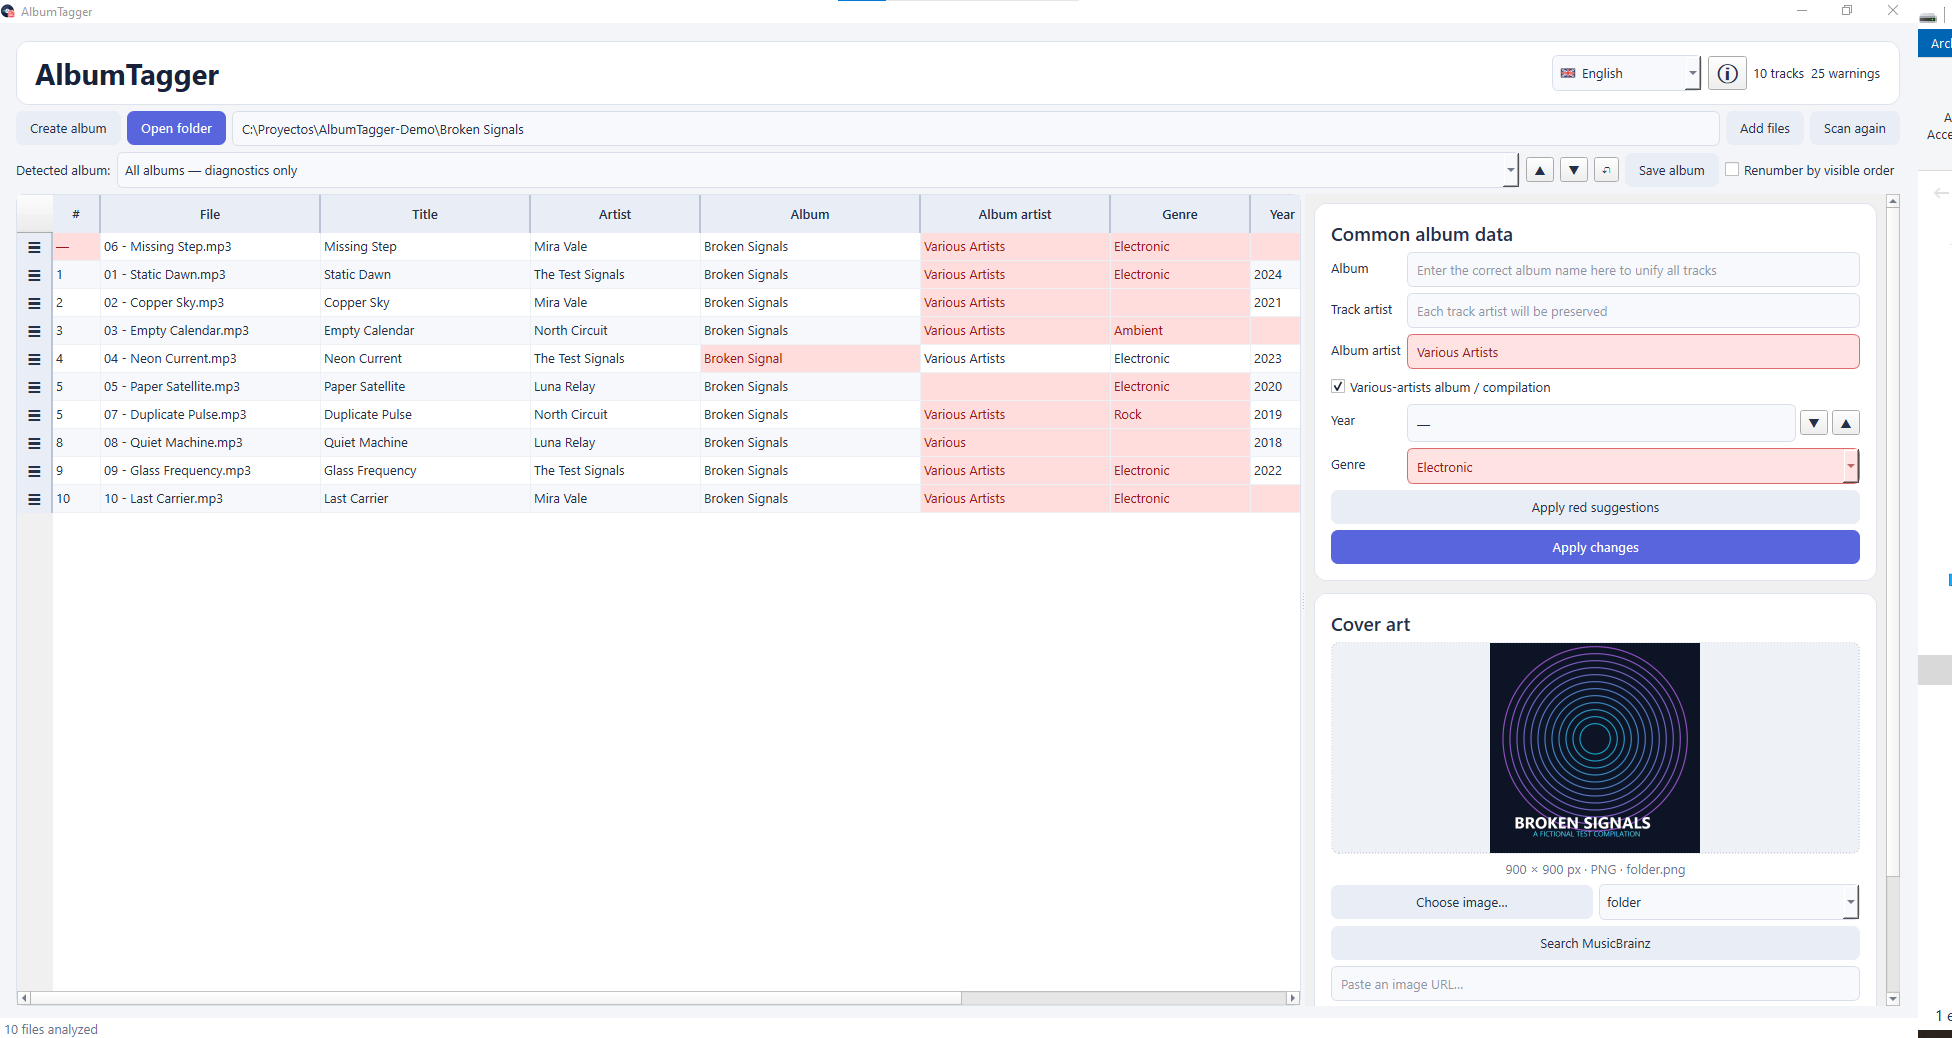
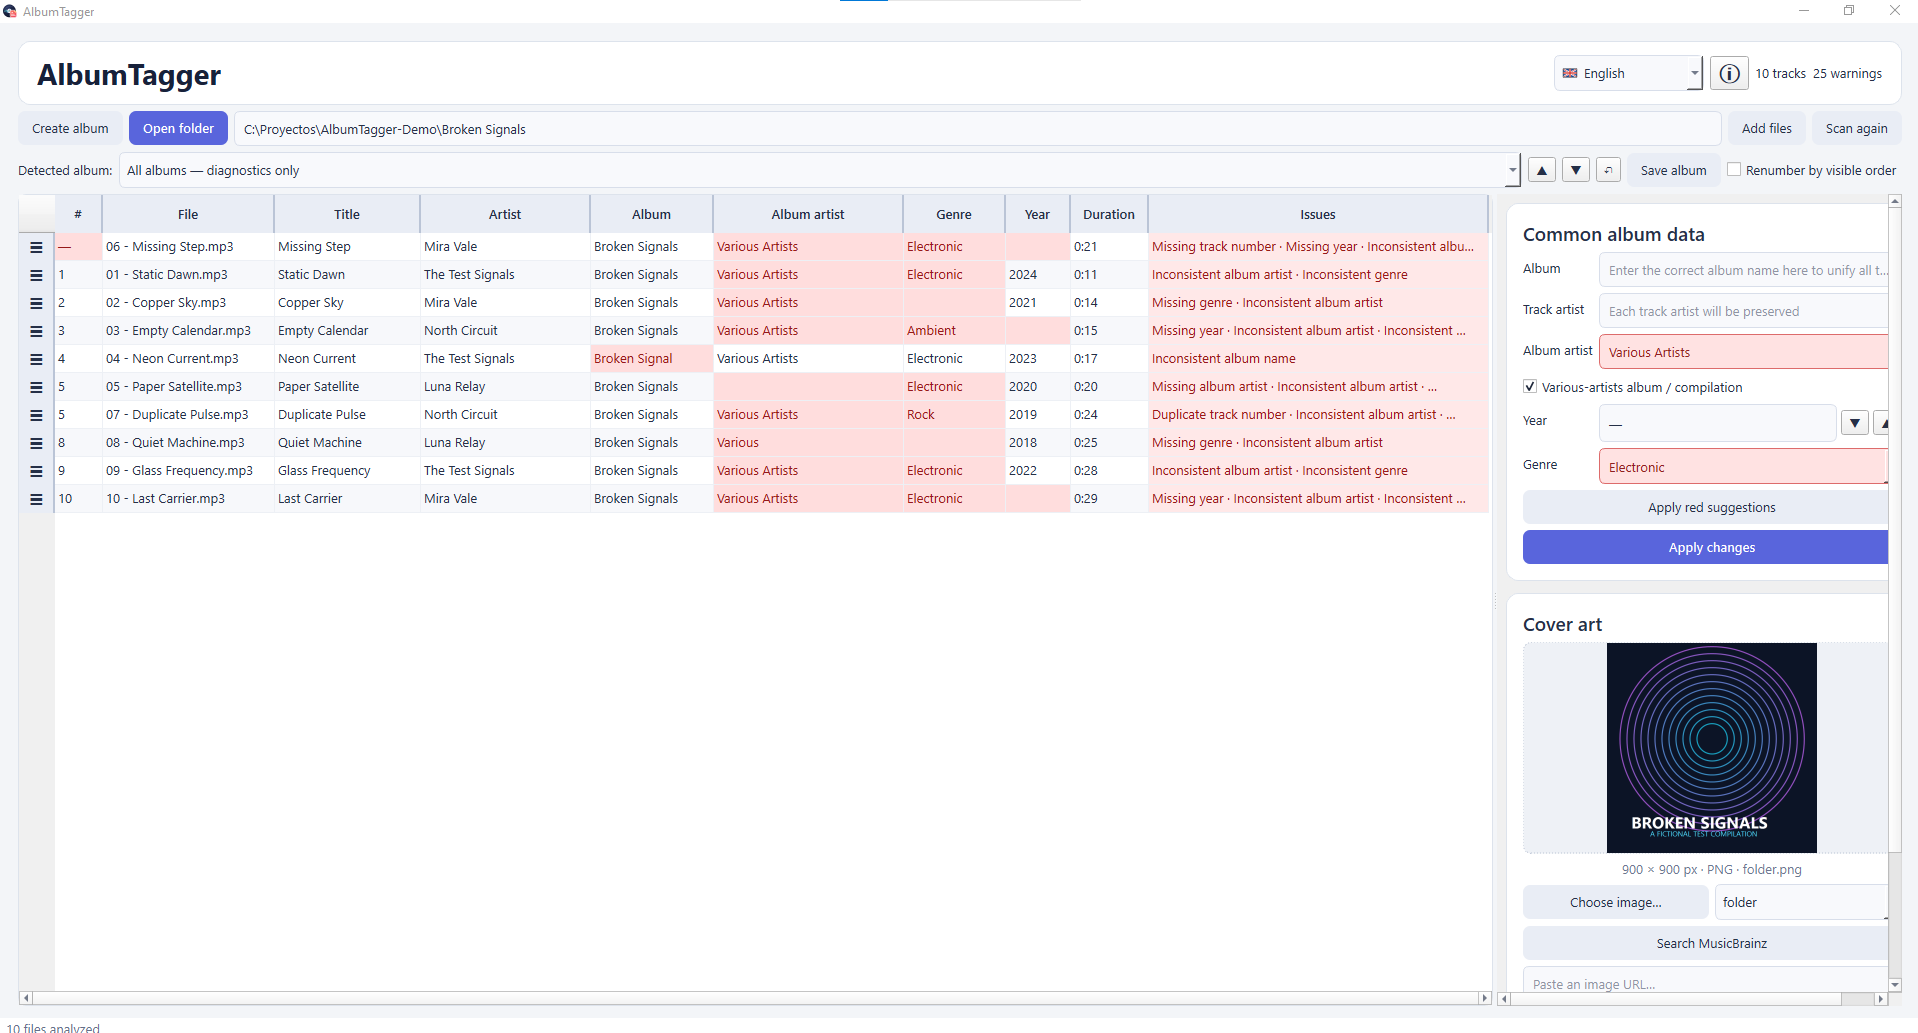
Fix per-track durations and refresh screenshots

diff --git a/src/tagservice.cpp b/src/tagservice.cpp
@@ -87,9 +87,10 @@ TrackInfo TagService::readFile(const QString &path)
     result.fileName = QFileInfo(path).fileName();
 
     const QByteArray nativePath = QFile::encodeName(path);
-    // AudioProperties::Fast evita analizar todo el flujo de audio solo para
-    // obtener duración y tags, algo importante en carpetas grandes.
-    TagLib::FileRef file(nativePath.constData(), true, TagLib::AudioProperties::Fast);
+    // Accurate recorre los frames del archivo. Es algo más costoso que Fast,
+    // pero evita confiar en cabeceras Xing/VBR ausentes o defectuosas que
+    // podrían producir duraciones repetidas o completamente disparatadas.
+    TagLib::FileRef file(nativePath.constData(), true, TagLib::AudioProperties::Accurate);
     if (file.isNull() || !file.tag()) {
         result.error = QStringLiteral("No se pudieron leer las etiquetas");
         return result;
